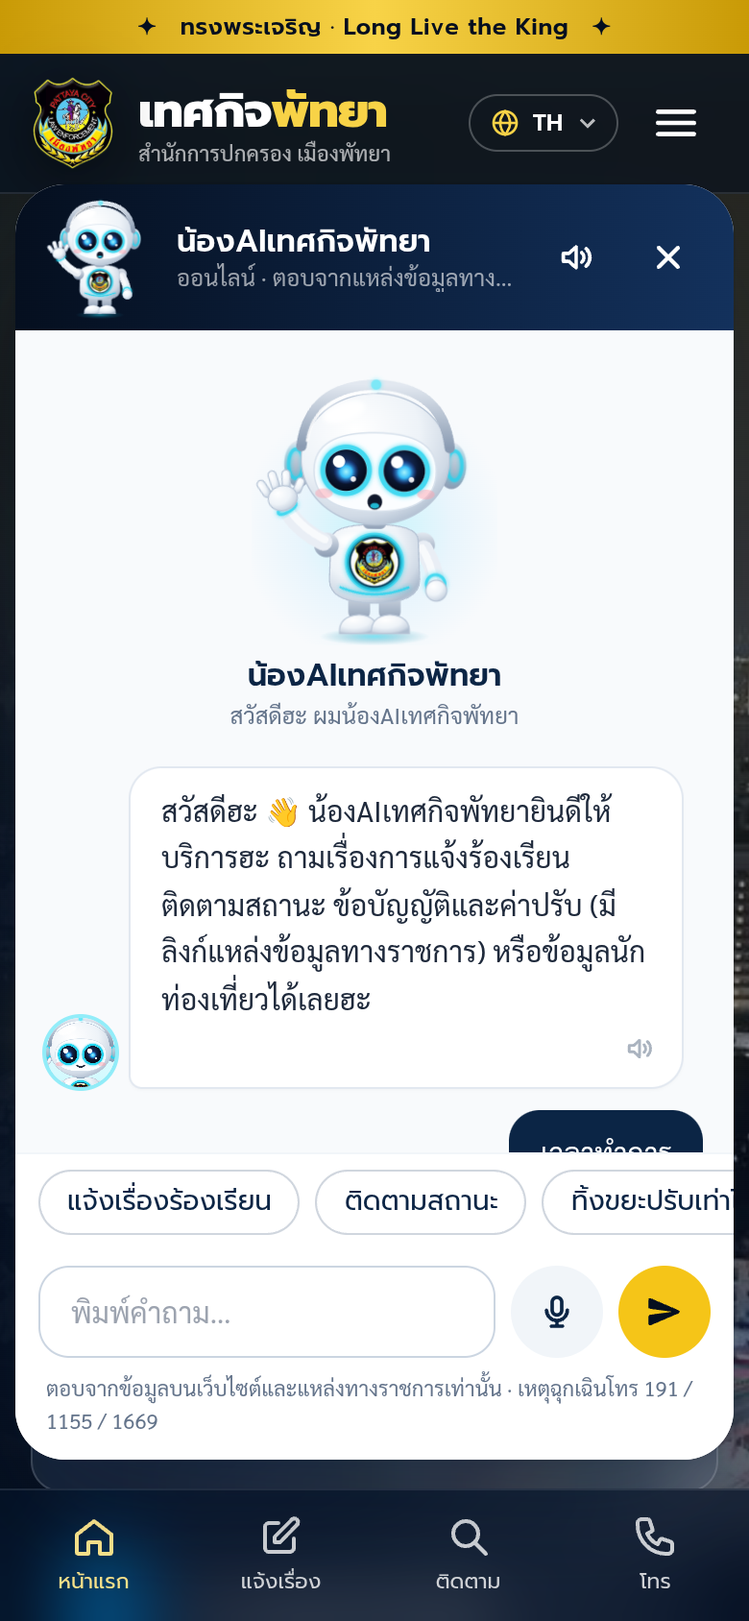
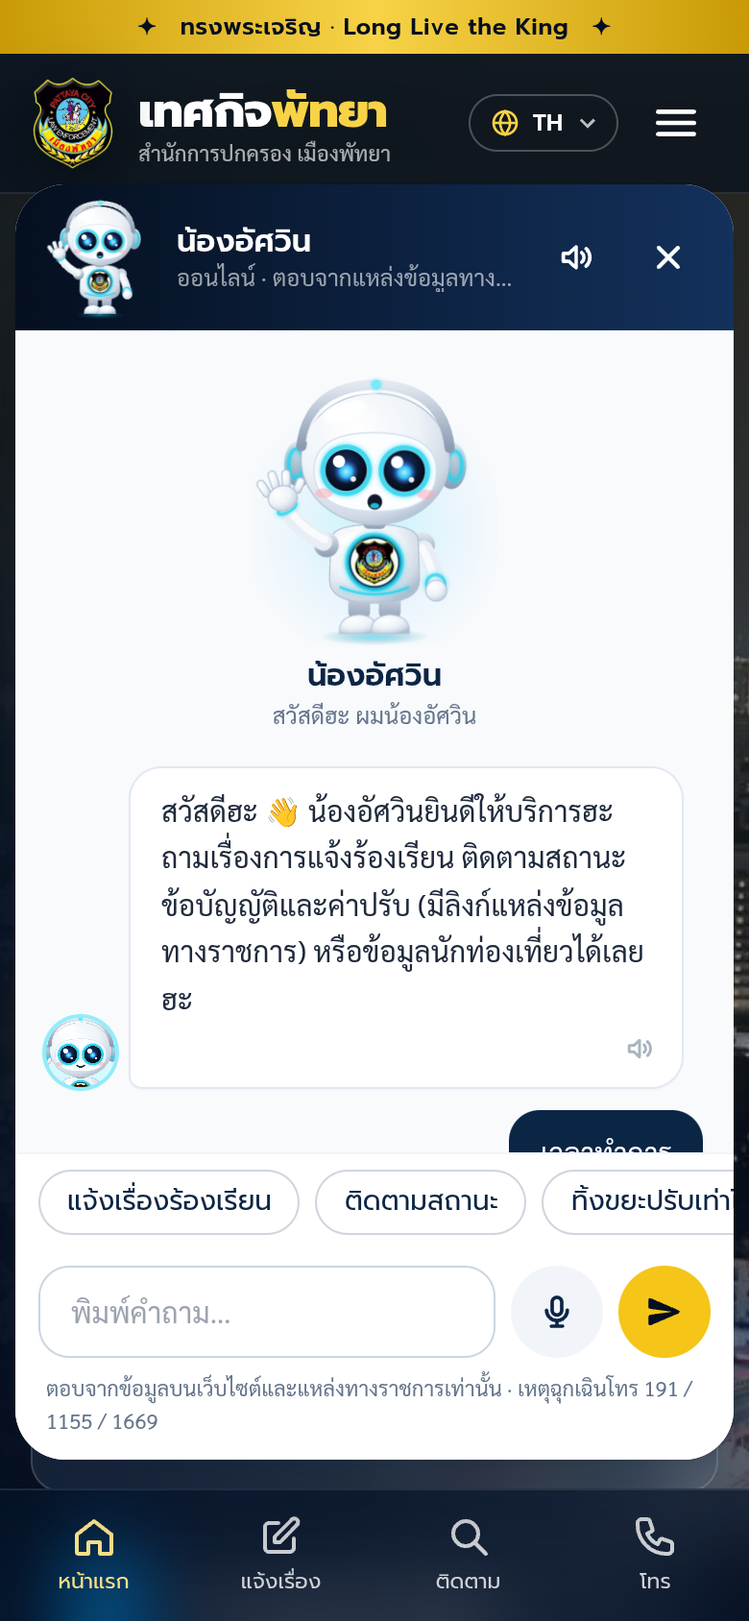
เปลี่ยนชื่อแชทบอท/มาสคอตเป็น 'น้องอัศวิน' (Nong Assawin / 阿萨温 / Нонг Ассавин) ทุกที่ + คำทักทายเสียงใหม่ + ตอบคำทักทาย/ถามชื่อ

Changed region(s): [[0.2154, 0.4929, 0.8615, 0.6469], [0.3077, 0.4005, 0.6769, 0.4621], [0.3077, 0.1232, 0.5846, 0.154]]

diff --git a/assets/app.js b/assets/app.js
@@ -237,7 +237,7 @@
   var langMenu = $('#langMenu'), langBtn = $('#langBtn');
   langBtn.addEventListener('click', function (e) { e.stopPropagation(); var hidden = langMenu.classList.toggle('hidden'); langBtn.setAttribute('aria-expanded', String(!hidden)); });
   document.addEventListener('click', function () { langMenu.classList.add('hidden'); langBtn.setAttribute('aria-expanded', 'false'); });
-  var langMsg = { en: ['English', 'The assistant “น้องAI” now replies in English. Full English pages coming soon.'], zh: ['中文', '智能助手现在用中文回答。中文网页即将推出。'], ru: ['Русский', 'Помощник теперь отвечает по-русски. Русская версия сайта скоро появится.'], th: ['ภาษาไทย', 'น้องAIตอบเป็นภาษาไทย'] };
+  var langMsg = { en: ['English', 'The assistant “Nong Assawin” now replies in English. Full English pages coming soon.'], zh: ['中文', '智能助手阿萨温现在用中文回答。中文网页即将推出。'], ru: ['Русский', 'Помощник Нонг Ассавин теперь отвечает по-русски. Русская версия сайта скоро появится.'], th: ['ภาษาไทย', 'น้องอัศวินตอบเป็นภาษาไทย'] };
   function setLang(l, silent) {
     if (!LANG_UI[l]) return; curLang = l; $('#langCur').textContent = LANG_UI[l];
     try { localStorage.setItem('tkpLang', l); } catch (e) {}
@@ -339,10 +339,10 @@
   // ---------- chatbot (มาสคอต + หลายภาษา) ----------
   var chatReady = false, history = [], bot = {}, userSpoke = false, greetEl = null, logoUrl = 'assets/logo.png';
   var CUI = {
-    th: { ph: 'พิมพ์คำถาม…', hint: 'ถามน้องAIได้เลย!', typing: 'กำลังพิมพ์', off: 'ขออภัยฮะ ขณะนี้ไม่สามารถเชื่อมต่อระบบได้ กรุณาลองใหม่อีกครั้งนะฮะ', sub: 'ออนไลน์ · ตอบจากแหล่งข้อมูลทางราชการ', dis: '', hi: 'สวัสดีฮะ ผมน้องAIเทศกิจพัทยา', tease: 'สวัสดีฮะ 👋', listen: 'กำลังฟัง… พูดได้เลยฮะ', spkOn: 'ปิดเสียงพูด', spkOff: 'เปิดเสียงพูด', replay: 'ฟังอีกครั้ง', mic: 'พูดเพื่อถาม', noVoice: 'อุปกรณ์นี้ยังไม่มีเสียงอ่านภาษาไทย (ลองใช้ Chrome/Edge หรือเพิ่มเสียงภาษาไทยในการตั้งค่าเครื่อง)', micErr: 'ใช้ไมโครโฟนไม่ได้ กรุณาอนุญาตการใช้ไมโครโฟนในเบราว์เซอร์' },
-    en: { ph: 'Type your question…', hint: 'Ask me anything!', typing: 'typing', off: 'Sorry, the assistant is offline right now. Please try again.', sub: 'Online · answers from official sources', dis: 'Answers only from this website and official sources · Emergency 191 / 1155 / 1669', hi: 'Hi, I’m your Pattaya City helper', tease: 'Hello! 👋', listen: 'Listening… go ahead', spkOn: 'Mute voice', spkOff: 'Unmute voice', replay: 'Play again', mic: 'Speak to ask', noVoice: 'No English voice is available on this device.', micErr: 'Microphone unavailable. Please allow microphone access.' },
-    zh: { ph: '请输入您的问题…', hint: '有问题问我吧！', typing: '正在输入', off: '抱歉，助手暂时无法连接，请稍后再试。', sub: '在线 · 依据官方来源回答', dis: '仅根据本网站及官方来源回答 · 紧急情况拨打 191 / 1155 / 1669', hi: '您好，我是芭提雅市执法小助手', tease: '您好！👋', listen: '正在聆听…请说', spkOn: '关闭语音', spkOff: '开启语音', replay: '再听一次', mic: '语音提问', noVoice: '此设备没有中文语音。', micErr: '无法使用麦克风，请在浏览器中允许麦克风权限。' },
-    ru: { ph: 'Введите вопрос…', hint: 'Спросите меня!', typing: 'печатает', off: 'Извините, помощник сейчас недоступен. Попробуйте позже.', sub: 'Онлайн · ответы по официальным источникам', dis: 'Ответы только по данным сайта и официальным источникам · Экстренно 191 / 1155 / 1669', hi: 'Привет! Я помощник инспекции Паттайи', tease: 'Привет! 👋', listen: 'Слушаю… говорите', spkOn: 'Выключить голос', spkOff: 'Включить голос', replay: 'Прослушать снова', mic: 'Спросить голосом', noVoice: 'На этом устройстве нет русского голоса.', micErr: 'Микрофон недоступен. Разрешите доступ к микрофону.' }
+    th: { ph: 'พิมพ์คำถาม…', hint: 'ถามน้องอัศวินได้เลย!', typing: 'กำลังพิมพ์', off: 'ขออภัยฮะ ขณะนี้ไม่สามารถเชื่อมต่อระบบได้ กรุณาลองใหม่อีกครั้งนะฮะ', sub: 'ออนไลน์ · ตอบจากแหล่งข้อมูลทางราชการ', dis: '', hi: 'สวัสดีฮะ ผมน้องอัศวิน', tease: 'สวัสดีฮะ 👋', listen: 'กำลังฟัง… พูดได้เลยฮะ', spkOn: 'ปิดเสียงพูด', spkOff: 'เปิดเสียงพูด', replay: 'ฟังอีกครั้ง', mic: 'พูดเพื่อถาม', noVoice: 'อุปกรณ์นี้ยังไม่มีเสียงอ่านภาษาไทย (ลองใช้ Chrome/Edge หรือเพิ่มเสียงภาษาไทยในการตั้งค่าเครื่อง)', micErr: 'ใช้ไมโครโฟนไม่ได้ กรุณาอนุญาตการใช้ไมโครโฟนในเบราว์เซอร์' },
+    en: { ph: 'Type your question…', hint: 'Ask me anything!', typing: 'typing', off: 'Sorry, the assistant is offline right now. Please try again.', sub: 'Online · answers from official sources', dis: 'Answers only from this website and official sources · Emergency 191 / 1155 / 1669', hi: 'Hi, I’m Nong Assawin, your Pattaya City helper', tease: 'Hello! 👋', listen: 'Listening… go ahead', spkOn: 'Mute voice', spkOff: 'Unmute voice', replay: 'Play again', mic: 'Speak to ask', noVoice: 'No English voice is available on this device.', micErr: 'Microphone unavailable. Please allow microphone access.' },
+    zh: { ph: '请输入您的问题…', hint: '有问题问我吧！', typing: '正在输入', off: '抱歉，助手暂时无法连接，请稍后再试。', sub: '在线 · 依据官方来源回答', dis: '仅根据本网站及官方来源回答 · 紧急情况拨打 191 / 1155 / 1669', hi: '您好，我是阿萨温，芭提雅市执法小助手', tease: '您好！👋', listen: '正在聆听…请说', spkOn: '关闭语音', spkOff: '开启语音', replay: '再听一次', mic: '语音提问', noVoice: '此设备没有中文语音。', micErr: '无法使用麦克风，请在浏览器中允许麦克风权限。' },
+    ru: { ph: 'Введите вопрос…', hint: 'Спросите меня!', typing: 'печатает', off: 'Извините, помощник сейчас недоступен. Попробуйте позже.', sub: 'Онлайн · ответы по официальным источникам', dis: 'Ответы только по данным сайта и официальным источникам · Экстренно 191 / 1155 / 1669', hi: 'Привет! Я Нонг Ассавин, помощник инспекции Паттайи', tease: 'Привет! 👋', listen: 'Слушаю… говорите', spkOn: 'Выключить голос', spkOff: 'Включить голос', replay: 'Прослушать снова', mic: 'Спросить голосом', noVoice: 'На этом устройстве нет русского голоса.', micErr: 'Микрофон недоступен. Разрешите доступ к микрофону.' }
   };
   function useMascot() { return bot.mascot !== false; }
   function avatarHtml(cls) {
@@ -403,7 +403,7 @@
     });
     if (!stopMic) micState(false);
   }
-  function voiceGreeting() { var g = vcfg().greetings || {}; return pfx(g[curLang] || (curLang === 'th' ? 'สวัสดีฮะ ยินดีต้อนรับสู่เทศกิจพัทยาฮะ น้องAIยินดีช่วยเหลือฮะ' : g.en) || ''); }
+  function voiceGreeting() { var g = vcfg().greetings || {}; return pfx(g[curLang] || (curLang === 'th' ? 'สวัสดีฮะ น้องอัศวินยินดีต้อนรับสู่เทศกิจพัทยาฮะ' : g.en) || ''); }
   function greeting() { var g = bot.greetings || {}; return pfx(g[curLang] || (curLang === 'th' ? bot.greeting : g.en) || bot.greeting || 'สวัสดีฮะ'); }
   function chips() { var q = bot.quickRepliesI18n || {}; return q[curLang] || (curLang === 'th' ? bot.quickReplies : q.en) || bot.quickReplies || []; }
   function paintChat() {
@@ -421,7 +421,7 @@
     if (bot.enabled === false) return;
     logoUrl = safeUrl(((window.__content || {}).site || {}).logo || 'assets/logo.png');
     $('#chatRoot').classList.remove('hidden');
-    $$('.bot-name').forEach(function (el) { el.textContent = bot.name || 'น้องAI'; });
+    $$('.bot-name').forEach(function (el) { el.textContent = bot.name || 'น้องอัศวิน'; });
     $('#chatFabFig').innerHTML = avatarHtml('');
     $('#chatHeadFig').innerHTML = avatarHtml('');
     $('#chatDisclaimer').textContent = bot.disclaimer || '';
@@ -429,7 +429,7 @@
       if (useMascot()) {
         var hero = document.createElement('div');
         hero.className = 'flex flex-col items-center text-center pt-1 pb-2';
-        hero.innerHTML = '<span id="chatHeroFig" class="block w-32 h-36" style="background:radial-gradient(circle at 50% 58%,rgba(103,232,249,.35) 0,rgba(186,230,253,.25) 38%,transparent 66%)">' + window.TKPMascot.svg(logoUrl, '', bot.mascotStyle) + '</span><p class="mt-1 font-head font-semibold text-navy-900 bot-name">' + esc(bot.name || 'น้องAI') + '</p><p id="chatHeroHi" class="text-xs text-slate-500"></p>';
+        hero.innerHTML = '<span id="chatHeroFig" class="block w-32 h-36" style="background:radial-gradient(circle at 50% 58%,rgba(103,232,249,.35) 0,rgba(186,230,253,.25) 38%,transparent 66%)">' + window.TKPMascot.svg(logoUrl, '', bot.mascotStyle) + '</span><p class="mt-1 font-head font-semibold text-navy-900 bot-name">' + esc(bot.name || 'น้องอัศวิน') + '</p><p id="chatHeroHi" class="text-xs text-slate-500"></p>';
         $('#chatLog').appendChild(hero);
       }
       greetEl = addMsg('bot', greeting()); chatReady = true;

diff --git a/admin/index.html b/admin/index.html
@@ -116,7 +116,7 @@
         <p class="mt-3 text-xs text-slate-400">ปิด “แชทบอท” จะปิด API /api/chat ด้วย · ปิด “แจ้งเหตุบนถนน” จะซ่อนปุ่ม/รายการแจ้งเหตุและหมุดบนแผนที่</p>
       </section>
       <section class="rounded-2xl bg-white ring-1 ring-slate-200 p-4 mt-4" id="voiceBox">
-        <h2 class="font-head font-semibold text-lg text-navy-900 mb-1">🔊 เสียงพูดของน้องAI</h2>
+        <h2 class="font-head font-semibold text-lg text-navy-900 mb-1">🔊 เสียงพูดของน้องอัศวิน</h2>
         <p class="text-xs text-slate-500 mb-2">ใช้เสียงในเบราว์เซอร์ (ฟรี) · เสียงภาษาไทยขึ้นกับอุปกรณ์ผู้ใช้ · <span id="ttsStatus">กำลังตรวจสอบเสียงฝั่งเซิร์ฟเวอร์…</span></p>
         <div id="voiceList" class="divide-y divide-slate-100"></div>
       </section>
@@ -358,7 +358,7 @@ $$('[data-goto]').forEach(function(b){b.onclick=function(){current=b.dataset.got
 
 // ---------- layout tab (sections on/off + drag-and-drop order) ----------
 var SEC_DEF=[['hero','ภาพหลัก (Hero)'],['royal','ส่วนถวายพระพร'],['services','บริการ'],['traffic','แผนที่จราจร 3D / CCTV / แจ้งเหตุ'],['tourist','ช่วยเหลือนักท่องเที่ยว'],['track','เกี่ยวกับเรา · แจ้งเรื่อง · ติดตามสถานะ'],['stats','สถิติ'],['news','ข่าวสาร'],['laws','กฎหมาย/ค่าปรับ'],['faq','คำถามที่พบบ่อย']];
-var FEAT_DEF=[['cctv','กล้อง CCTV','กล้องสดบนแผนที่ 3D และแถบกล้อง'],['alerts','แจ้งเหตุบนถนน (Waze-style)','ปุ่มแจ้งเหตุ รายการเหตุ และหมุดบนแผนที่'],['simulation','รถ 3 มิติ (ภาพจำลอง)','ปุ่ม 🚗 และรถจำลองบนแผนที่'],['complaint','แจ้งเรื่องร้องเรียน','การ์ด/แบบฟอร์มแจ้งเรื่อง และลิงก์เมนู'],['trackStatus','ติดตามสถานะ','การ์ดค้นหาเลขรับเรื่อง'],['about','เกี่ยวกับเรา','ข้อความแนะนำหน่วยงาน'],['chatbot','แชทบอท น้องAI','ปุ่มลอยและหน้าต่างแชท'],['mobileBar','แถบเมนูล่าง (มือถือ)','เมนูลัด 4 ปุ่มด้านล่างจอมือถือ']];
+var FEAT_DEF=[['cctv','กล้อง CCTV','กล้องสดบนแผนที่ 3D และแถบกล้อง'],['alerts','แจ้งเหตุบนถนน (Waze-style)','ปุ่มแจ้งเหตุ รายการเหตุ และหมุดบนแผนที่'],['simulation','รถ 3 มิติ (ภาพจำลอง)','ปุ่ม 🚗 และรถจำลองบนแผนที่'],['complaint','แจ้งเรื่องร้องเรียน','การ์ด/แบบฟอร์มแจ้งเรื่อง และลิงก์เมนู'],['trackStatus','ติดตามสถานะ','การ์ดค้นหาเลขรับเรื่อง'],['about','เกี่ยวกับเรา','ข้อความแนะนำหน่วยงาน'],['chatbot','แชทบอท น้องอัศวิน','ปุ่มลอยและหน้าต่างแชท'],['mobileBar','แถบเมนูล่าง (มือถือ)','เมนูลัด 4 ปุ่มด้านล่างจอมือถือ']];
 var layDirtyFlag=false;
 function layDirty(on){layDirtyFlag=on;$('#layDirty').classList.toggle('hidden',!on);setDirty(on)}
 function ensureLayout(){
@@ -405,7 +405,7 @@ function renderLayout(){
       (pin?'':'<button type="button" class="btn btn-ghost !px-2 !py-1" data-lmv="-1" aria-label="เลื่อนขึ้น">↑</button><button type="button" class="btn btn-ghost !px-2 !py-1" data-lmv="1" aria-label="เลื่อนลง">↓</button>')+
       swHtml('data-lsw',x.enabled,'แสดง '+x.label)+'</li>'}).join('');
   var fl=FEAT_DEF.map(function(d){return '<div class="flex items-center gap-3 py-3"><div class="flex-1 min-w-0"><p class="font-head font-medium text-navy-900">'+esc(d[1])+'</p><p class="text-xs text-slate-500">'+esc(d[2])+'</p></div>'+swHtml('data-fsw="'+d[0]+'"',content.features[d[0]]!==false,d[1])+'</div>'}).join('');
-  fl+='<div class="flex items-center gap-3 py-3"><div class="flex-1 min-w-0"><p class="font-head font-medium text-navy-900">มาสคอตน้องAI (แอนิเมชัน)</p><p class="text-xs text-slate-500">ปิดเพื่อใช้รูปอวตารที่อัปโหลดเอง (เนื้อหาเว็บไซต์ → แชทบอท → รูปอวตาร)</p></div>'+swHtml('data-msw',content.chatbot.mascot!==false,'มาสคอต')+'</div>';
+  fl+='<div class="flex items-center gap-3 py-3"><div class="flex-1 min-w-0"><p class="font-head font-medium text-navy-900">มาสคอตน้องอัศวิน (แอนิเมชัน)</p><p class="text-xs text-slate-500">ปิดเพื่อใช้รูปอวตารที่อัปโหลดเอง (เนื้อหาเว็บไซต์ → แชทบอท → รูปอวตาร)</p></div>'+swHtml('data-msw',content.chatbot.mascot!==false,'มาสคอต')+'</div>';
   var ms=content.chatbot.mascotStyle==='officer'?'officer':'robot';
   fl+='<div class="flex items-center gap-3 py-3"><div class="flex-1 min-w-0"><p class="font-head font-medium text-navy-900">แบบมาสคอต</p><p class="text-xs text-slate-500">หุ่นยนต์ (ค่าเริ่มต้น) หรือ หุ่นยนต์ชุดเจ้าหน้าที่เทศกิจ (ตัวอย่าง)</p></div><select data-mstyle class="rounded-lg border border-slate-300 px-3 py-1.5 text-sm"><option value="robot"'+(ms==='robot'?' selected':'')+'>หุ่นยนต์</option><option value="officer"'+(ms==='officer'?' selected':'')+'>เจ้าหน้าที่</option></select></div>';
   $('#featList').innerHTML=fl;

diff --git a/index.html b/index.html
@@ -75,7 +75,7 @@ tailwind.config = {
   .typing span { width:7px; height:7px; border-radius:99px; background:#94a3b8; display:inline-block; animation: blink 1.2s infinite both; }
   .typing span:nth-child(2){animation-delay:.2s} .typing span:nth-child(3){animation-delay:.4s}
   @keyframes blink { 0%,80%,100%{opacity:.25; transform:translateY(0)} 40%{opacity:1; transform:translateY(-3px)} }
-  /* ---- mascot น้องAI: CSS อยู่ใน assets/mascot.js ---- */
+  /* ---- mascot น้องอัศวิน: CSS อยู่ใน assets/mascot.js ---- */
   #chatMic.mic-on{background:#ef4444;color:#fff}
   #chatMic.mic-on::before,#chatMic.mic-on::after{content:'';position:absolute;inset:0;border-radius:9999px;background:rgba(239,68,68,.45);animation:micPulse 1.4s ease-out infinite}
   #chatMic.mic-on::after{animation-delay:.7s}
@@ -645,12 +645,12 @@ tailwind.config = {
 
 <!-- Chatbot -->
 <div id="chatRoot" class="hidden">
-  <button id="chatFab" type="button" class="fixed z-50 right-3 bottom-[84px] lg:bottom-5 lg:right-6 group flex items-end gap-1" aria-controls="chatPanel" aria-expanded="false" aria-label="แชทกับน้องAIเทศกิจพัทยา">
-    <span id="chatHint" class="chat-bubble-hint hidden sm:inline-flex mb-9 mr-[-6px] items-center rounded-2xl rounded-br-md bg-white text-navy-900 font-head font-semibold text-sm px-3.5 py-2 shadow-lift ring-1 ring-black/5"><span id="chatHintText">ถาม<span class="bot-name">น้องAI</span>ได้เลย!</span></span>
+  <button id="chatFab" type="button" class="fixed z-50 right-3 bottom-[84px] lg:bottom-5 lg:right-6 group flex items-end gap-1" aria-controls="chatPanel" aria-expanded="false" aria-label="แชทกับน้องอัศวิน">
+    <span id="chatHint" class="chat-bubble-hint hidden sm:inline-flex mb-9 mr-[-6px] items-center rounded-2xl rounded-br-md bg-white text-navy-900 font-head font-semibold text-sm px-3.5 py-2 shadow-lift ring-1 ring-black/5"><span id="chatHintText">ถาม<span class="bot-name">น้องอัศวิน</span>ได้เลย!</span></span>
     <span id="chatFabFig" class="relative block w-[78px] h-[92px] fab-mascot"></span>
     <span class="absolute right-2 bottom-1 w-3.5 h-3.5 rounded-full bg-emerald-400 ring-2 ring-white"></span>
   </button>
-  <section id="chatPanel" class="chat-panel closed fixed z-[55] inset-x-2 bottom-[84px] top-[96px] sm:top-auto sm:inset-x-auto sm:right-6 sm:bottom-24 lg:bottom-24 sm:w-[400px] sm:h-[620px] max-h-[calc(100svh-100px)] rounded-[26px] bg-white shadow-lift ring-1 ring-black/5 flex flex-col overflow-hidden" role="dialog" aria-label="แชทกับน้องAI" aria-modal="false">
+  <section id="chatPanel" class="chat-panel closed fixed z-[55] inset-x-2 bottom-[84px] top-[96px] sm:top-auto sm:inset-x-auto sm:right-6 sm:bottom-24 lg:bottom-24 sm:w-[400px] sm:h-[620px] max-h-[calc(100svh-100px)] rounded-[26px] bg-white shadow-lift ring-1 ring-black/5 flex flex-col overflow-hidden" role="dialog" aria-label="แชทกับน้องอัศวิน" aria-modal="false">
     <header class="relative bg-gradient-to-r from-navy-950 to-navy-800 text-white px-4 py-3.5 flex items-center gap-3">
       <span id="chatHeadFig" class="relative w-14 h-16 -my-2 shrink-0"></span>
       <span class="hidden">
@@ -658,7 +658,7 @@ tailwind.config = {
         <span class="absolute bottom-0 right-0 w-3 h-3 rounded-full bg-emerald-400 ring-2 ring-navy-900"></span>
       </span>
       <div class="min-w-0 flex-1">
-        <p class="font-head font-semibold leading-tight truncate bot-name">น้องAIเทศกิจพัทยา</p>
+        <p class="font-head font-semibold leading-tight truncate bot-name">น้องอัศวิน</p>
         <p class="text-xs text-white/60 truncate" id="chatSub">ออนไลน์ · TH / EN</p>
       </div>
       <button id="chatSpk" type="button" class="hidden w-9 h-9 rounded-full hover:bg-white/10 items-center justify-center" aria-pressed="true" aria-label="เปิด/ปิดเสียงพูด" title="เสียงพูด">

diff --git a/assets/mascot.js b/assets/mascot.js
@@ -1,4 +1,4 @@
-/* น้องAIเทศกิจพัทยา — มาสคอตหุ่นยนต์ต้นฉบับ (ออกแบบใหม่ทั้งหมด ไม่ได้ลอก/ตามรอยภาพใด) วาดด้วย SVG หลายเลเยอร์ + แอนิเมชัน CSS
+/* น้องอัศวิน — มาสคอตหุ่นยนต์ต้นฉบับ (ออกแบบใหม่ทั้งหมด ไม่ได้ลอก/ตามรอยภาพใด) วาดด้วย SVG หลายเลเยอร์ + แอนิเมชัน CSS
  * TKPMascot.svg(logoUrl, extraClass) → string
  *   คลาสเสริม: wave (โบกมือ) · talking (ขยับปาก/ตาเรืองแสงขณะตอบ) · static (หยุดลอย/เอียงหัว)
  *   แอนิเมชันพื้นฐาน: ลอยขึ้นลง · กะพริบตา · เอียงหัว · ไฟอก/ตาเรืองแสงเป็นจังหวะ · hover = โบกมือ + เอียงหัว + ตายิ้ม
@@ -74,7 +74,7 @@
     logo = esc(logo || 'assets/logo.png');
     var id = 'm' + (++n) + Math.random().toString(36).slice(2, 6);
     var W = 'url(#wh' + id + ')';
-    return '<svg class="mascot ' + esc(cls || '') + '" viewBox="0 0 160 190" width="100%" height="100%" role="img" aria-label="น้องAIเทศกิจพัทยา">' +
+    return '<svg class="mascot ' + esc(cls || '') + '" viewBox="0 0 160 190" width="100%" height="100%" role="img" aria-label="น้องอัศวิน">' +
       '<defs>' +
         '<radialGradient id="wh' + id + '" cx="36%" cy="28%" r="78%"><stop offset="0" stop-color="#ffffff"/><stop offset=".55" stop-color="#eef3f8"/><stop offset=".85" stop-color="#cfd9e5"/><stop offset="1" stop-color="#aebdcf"/></radialGradient>' +
         '<radialGradient id="ey' + id + '" cx="45%" cy="40%" r="65%"><stop offset="0" stop-color="#1d3b7a"/><stop offset=".6" stop-color="#0b1730"/><stop offset="1" stop-color="#030712"/></radialGradient>' +
@@ -149,7 +149,7 @@
     logo = esc(logo || 'assets/logo.png');
     var id = 'o' + (++n) + Math.random().toString(36).slice(2, 6);
     var W = 'url(#wh' + id + ')', NV = 'url(#nv' + id + ')', GD = 'url(#gd' + id + ')', G = 'url(#gl' + id + ')';
-    return '<svg class="mascot mascot-officer ' + esc(cls || '') + '" viewBox="0 0 160 190" width="100%" height="100%" role="img" aria-label="น้องAIเทศกิจพัทยา (ชุดเจ้าหน้าที่)">' +
+    return '<svg class="mascot mascot-officer ' + esc(cls || '') + '" viewBox="0 0 160 190" width="100%" height="100%" role="img" aria-label="น้องอัศวิน (ชุดเจ้าหน้าที่)">' +
       '<defs>' +
         '<radialGradient id="wh' + id + '" cx="36%" cy="28%" r="78%"><stop offset="0" stop-color="#ffffff"/><stop offset=".55" stop-color="#eef3f8"/><stop offset=".85" stop-color="#cfd9e5"/><stop offset="1" stop-color="#aebdcf"/></radialGradient>' +
         '<linearGradient id="nv' + id + '" x1="0" y1="0" x2=".35" y2="1"><stop offset="0" stop-color="#2c4f86"/><stop offset=".5" stop-color="#16325e"/><stop offset="1" stop-color="#0a1c3a"/></linearGradient>' +

diff --git a/chatbot.js b/chatbot.js
@@ -1,5 +1,5 @@
 /**
- * น้องAIเทศกิจพัทยา — chatbot engine (TH / EN / 中文 / РУС)
+ * น้องอัศวิน — chatbot engine (TH / EN / 中文 / РУС)
  * โหมด 1 (ค่าเริ่มต้น): ออฟไลน์ ตอบจากฐานความรู้ใน content.json เท่านั้น
  *   = chatbot.kb + faq + laws.items (ข้อมูลกฎหมายที่สรุปจากเว็บไซต์ราชการ พร้อม URL แหล่งที่มา)
  *   ถ้าไม่พบคำตอบที่มั่นใจ → ไม่เดา ตอบว่าไม่มีข้อมูล + ลิงก์ทางการ (chatbot.fallbackI18n)
@@ -115,7 +115,7 @@ function offlineAnswer(message, c, uiLang) {
   return { reply: applyParticle(fill(fb, c), lang, c), lang, matched: null, sources: [], score: +bestScore.toFixed(2) };
 }
 
-// คำลงท้ายภาษาไทยของน้องAI (ค่าเริ่มต้น "ฮะ" แก้ได้ในหลังบ้าน chatbot.particle) — เปลี่ยนเฉพาะคำลงท้ายประโยค ไม่แตะเนื้อหากฎหมาย
+// คำลงท้ายภาษาไทยของน้องอัศวิน (ค่าเริ่มต้น "ฮะ" แก้ได้ในหลังบ้าน chatbot.particle) — เปลี่ยนเฉพาะคำลงท้ายประโยค ไม่แตะเนื้อหากฎหมาย
 const PARTICLE_RE = /(ครับ|ค่ะ|ฮะ)(?=$|[\s.!?,)…👉🙏—:]|\n)/gu;
 function applyParticle(text, lang, c) {
   if (lang !== 'th') return text;

diff --git a/tts.js b/tts.js
@@ -1,6 +1,6 @@
 /* Server TTS (ไม่บังคับ) — เสียงคุณภาพสูงกว่าเสียงในเบราว์เซอร์
  * TTS_PROVIDER=openai : เรียก OpenAI-compatible POST {TTS_BASE_URL|AI_BASE_URL}/audio/speech (กุญแจ TTS_API_KEY หรือ AI_API_KEY)
- *                       TTS_MODEL (ค่าเริ่มต้น gpt-4o-mini-tts) · TTS_VOICE_FEMALE (nova) · TTS_VOICE_MALE (echo — เสียงผู้ชายนุ่ม ๆ ค่าเริ่มต้นของน้องAI)
+ *                       TTS_MODEL (ค่าเริ่มต้น gpt-4o-mini-tts) · TTS_VOICE_FEMALE (nova) · TTS_VOICE_MALE (echo — เสียงผู้ชายนุ่ม ๆ ค่าเริ่มต้นของน้องอัศวิน)
  * TTS_PROVIDER=google : Google Cloud Text-to-Speech REST ด้วย GOOGLE_TTS_API_KEY (ไม่ใช่กุญแจ Maps; จำกัด API ให้เฉพาะ Text-to-Speech)
  *                       เลือกเสียงเจาะจงได้ด้วย GOOGLE_TTS_VOICE_TH / _EN / _ZH / _RU (เช่น เสียงผู้ชายภาษาไทยรุ่น Chirp3-HD) ไม่ตั้ง = ให้ Google เลือกตาม ssmlGender
  * ไม่ตั้ง = ปิด → หน้าเว็บใช้ speechSynthesis ของเบราว์เซอร์ (ฟรี ไม่ต้องมีกุญแจ) · กุญแจอยู่ฝั่งเซิร์ฟเวอร์เท่านั้น */

diff --git a/tools/make_mascot_svg.js b/tools/make_mascot_svg.js
@@ -6,5 +6,5 @@ const style = process.argv[2] || 'officer';
 let svg = window.TKPMascot.svg('logo.png', '', style).replace(/ width="100%" height="100%"/, ' width="320" height="380"');
 svg = svg.replace('<svg ', '<svg xmlns="http://www.w3.org/2000/svg" ').replace('<defs>', '<style>' + window.TKPMascot.css.replace(/#chatFab:hover \.mascot /g, '.mascot:hover ') + '</style><defs>');
 const out = path.join(__dirname, '..', 'assets', style === 'officer' ? 'mascot-officer.svg' : 'mascot.svg');
-fs.writeFileSync(out, '<?xml version="1.0" encoding="UTF-8"?>\n<!-- น้องAIเทศกิจพัทยา — มาสคอตต้นฉบับ (' + style + ') · ตราโล่อ้างอิง logo.png ในโฟลเดอร์เดียวกัน -->\n' + svg + '\n');
+fs.writeFileSync(out, '<?xml version="1.0" encoding="UTF-8"?>\n<!-- น้องอัศวิน — มาสคอตต้นฉบับ (' + style + ') · ตราโล่อ้างอิง logo.png ในโฟลเดอร์เดียวกัน -->\n' + svg + '\n');
 console.log(out, fs.statSync(out).size);

diff --git a/assets/voice.js b/assets/voice.js
@@ -1,4 +1,4 @@
-/* น้องAIเทศกิจพัทยา — เสียงพูด/ฟัง (ฟรี ไม่ต้องใช้กุญแจ)
+/* น้องอัศวิน — เสียงพูด/ฟัง (ฟรี ไม่ต้องใช้กุญแจ)
  * TTS : Web Speech API speechSynthesis (เลือกเสียงตามภาษา th-TH / en-US / zh-CN / ru-RU, ชอบเสียงผู้ชาย)
  *       ถ้าเซิร์ฟเวอร์ตั้ง TTS_PROVIDER ไว้ จะใช้ POST /api/tts (เสียงคุณภาพสูงกว่า) และถอยกลับมาใช้เสียงเบราว์เซอร์เมื่อผิดพลาด
  * STT : SpeechRecognition / webkitSpeechRecognition (Chrome, Edge, Android, Safari) — ไม่รองรับ = ซ่อนปุ่มไมค์

diff --git a/tools/build_laws.py b/tools/build_laws.py
@@ -161,7 +161,7 @@ old = {s['id']: s for s in c.get('sections', [])}
 c['sections'] = [dict(id=k, label=l, enabled=old.get(k, {}).get('enabled', True), order=old.get(k, {}).get('order', i + 1)) for i, (k, l) in enumerate(SEC)]
 of = c.get('features', {})
 FEAT = [('cctv','กล้อง CCTV'),('alerts','แจ้งเหตุบนถนน (Waze-style)'),('simulation','รถ 3 มิติ (ภาพจำลอง)'),('complaint','แจ้งเรื่องร้องเรียน'),('trackStatus','ติดตามสถานะ'),
-        ('about','เกี่ยวกับเรา'),('chatbot','แชทบอท น้องAI'),('mobileBar','แถบเมนูล่าง (มือถือ)')]
+        ('about','เกี่ยวกับเรา'),('chatbot','แชทบอท น้องอัศวิน'),('mobileBar','แถบเมนูล่าง (มือถือ)')]
 c['features'] = {k: of.get(k, True) for k, _ in FEAT}
 c['featureLabels'] = {k: l for k, l in FEAT}
 
@@ -170,10 +170,10 @@ b = c['chatbot']
 b['mascot'] = b.get('mascot', True)
 b['subtitle'] = 'ผู้ช่วยตอบคำถามอัตโนมัติ · TH / EN / 中文 / РУС'
 b['greetings'] = {
- 'th': 'สวัสดีครับ 👋 น้องAIเทศกิจพัทยายินดีให้บริการ ถามเรื่องการแจ้งร้องเรียน ติดตามสถานะ ข้อบัญญัติและค่าปรับ (มีลิงก์แหล่งข้อมูลทางราชการ) หรือข้อมูลนักท่องเที่ยวได้เลยครับ',
+ 'th': 'สวัสดีครับ 👋 น้องอัศวินยินดีให้บริการ ถามเรื่องการแจ้งร้องเรียน ติดตามสถานะ ข้อบัญญัติและค่าปรับ (มีลิงก์แหล่งข้อมูลทางราชการ) หรือข้อมูลนักท่องเที่ยวได้เลยครับ',
  'en': 'Hello! 👋 I\'m the Pattaya City Law Enforcement assistant. Ask me about reporting issues, tracking a report, local rules & fines (with official source links) or tourist help.',
- 'zh': '您好！👋 我是芭提雅市执法助手。可以咨询投诉、进度查询、法规与罚款（附官方来源链接）以及游客帮助。',
- 'ru': 'Здравствуйте! 👋 Я помощник муниципальной инспекции Паттайи. Спрашивайте о жалобах, статусе обращения, правилах и штрафах (со ссылками на официальные источники) и помощи туристам.'}
+ 'zh': '您好！👋 我是阿萨温（Nong Assawin），芭提雅市执法助手。可以咨询投诉、进度查询、法规与罚款（附官方来源链接）以及游客帮助。',
+ 'ru': 'Здравствуйте! 👋 Я Нонг Ассавин, помощник муниципальной инспекции Паттайи. Спрашивайте о жалобах, статусе обращения, правилах и штрафах (со ссылками на официальные источники) и помощи туристам.'}
 b['greeting'] = b['greetings']['th']
 b['quickRepliesI18n'] = {
  'th': ['แจ้งเรื่องร้องเรียน','ติดตามสถานะ','ทิ้งขยะปรับเท่าไร','ขายของบนทางเท้า','สภาพจราจร','เบอร์ฉุกเฉิน','เวลาทำการ'],
@@ -182,7 +182,7 @@ b['quickRepliesI18n'] = {
  'ru': ['Подать жалобу','Статус обращения','Штраф за мусор','Уличная торговля','Пробки','Экстренные номера','Часы работы']}
 b['quickReplies'] = b['quickRepliesI18n']['th']
 b['fallbackI18n'] = {
- 'th': 'ขออภัยครับ น้องไม่มีข้อมูลที่ยืนยันได้จากแหล่งทางราชการในเรื่องนี้ จึงไม่ขอเดาคำตอบ 🙏 โปรดตรวจสอบที่ห้องสมุดกฎหมายเมืองพัทยา https://info.pattaya.go.th/DocLib8/Forms/AllItems.aspx หรือเว็บไซต์เมืองพัทยา https://www.pattaya.go.th หรือโทรสายด่วน {hotline} ({hours})',
+ 'th': 'ขออภัยครับ น้องอัศวินไม่มีข้อมูลที่ยืนยันได้จากแหล่งทางราชการในเรื่องนี้ จึงไม่ขอเดาคำตอบ 🙏 โปรดตรวจสอบที่ห้องสมุดกฎหมายเมืองพัทยา https://info.pattaya.go.th/DocLib8/Forms/AllItems.aspx หรือเว็บไซต์เมืองพัทยา https://www.pattaya.go.th หรือโทรสายด่วน {hotline} ({hours})',
  'en': 'Sorry, I don\'t have verified official information on that, so I won\'t guess 🙏 Please check Pattaya City\'s law library https://info.pattaya.go.th/DocLib8/Forms/AllItems.aspx or https://www.pattaya.go.th, or call {hotline} ({hours}). Emergencies: 191 / 1155 / 1669.',
  'zh': '抱歉，我没有经官方核实的相关信息，因此不作猜测 🙏 请查阅芭提雅市法规库 https://info.pattaya.go.th/DocLib8/Forms/AllItems.aspx 或 https://www.pattaya.go.th，或致电 {hotline}。紧急情况请拨 191 / 1155（旅游警察）/ 1669。',
  'ru': 'Извините, у меня нет проверенной официальной информации по этому вопросу, поэтому я не буду гадать 🙏 См. правовую библиотеку Паттайи https://info.pattaya.go.th/DocLib8/Forms/AllItems.aspx или https://www.pattaya.go.th, либо звоните {hotline}. Экстренно: 191 / 1155 (туристическая полиция) / 1669.'}
@@ -243,6 +243,6 @@ json.dump(c, open(P, 'w', encoding='utf-8'), ensure_ascii=False, indent=2)
 
 print('laws items:', len(items), 'with amounts:', sum(1 for i in items if i['fineAmount']))
 
-# บุคลิกน้องAI (ลงท้าย 'ฮะ') + ค่าเสียงพูด
+# บุคลิกน้องอัศวิน (ลงท้าย 'ฮะ') + ค่าเสียงพูด
 import subprocess, sys
 subprocess.run([sys.executable, os.path.join(os.path.dirname(os.path.abspath(__file__)), 'apply_persona.py')], check=True)

diff --git a/tools/apply_persona.py b/tools/apply_persona.py
@@ -1,4 +1,4 @@
-"""บุคลิกน้องAI: เด็กผู้ชายสุภาพ อ่อนโยน ภาษาไทยลงท้ายด้วย 'ฮะ' + ค่าเสียงพูดเริ่มต้น (idempotent)
+"""บุคลิกน้องอัศวิน: เด็กผู้ชายสุภาพ อ่อนโยน ภาษาไทยลงท้ายด้วย 'ฮะ' + ค่าเสียงพูดเริ่มต้น (idempotent)
 python3 tools/apply_persona.py   (build_laws.py เรียกให้อัตโนมัติ)"""
 import json, os, re
 ROOT = os.path.dirname(os.path.dirname(os.path.abspath(__file__)))
@@ -21,7 +21,7 @@ def main():
     c = json.load(open(P, encoding='utf-8'))
     b = c.setdefault('chatbot', {})
     pt = b.setdefault('particle', 'ฮะ')
-    b['greeting'] = 'สวัสดีฮะ 👋 น้องAIเทศกิจพัทยายินดีให้บริการฮะ ถามเรื่องการแจ้งร้องเรียน ติดตามสถานะ ข้อบัญญัติและค่าปรับ (มีลิงก์แหล่งข้อมูลทางราชการ) หรือข้อมูลนักท่องเที่ยวได้เลยฮะ'
+    b['greeting'] = 'สวัสดีฮะ 👋 น้องอัศวินยินดีให้บริการฮะ ถามเรื่องการแจ้งร้องเรียน ติดตามสถานะ ข้อบัญญัติและค่าปรับ (มีลิงก์แหล่งข้อมูลทางราชการ) หรือข้อมูลนักท่องเที่ยวได้เลยฮะ'
     b.setdefault('greetings', {})['th'] = b['greeting']
     b['fallback'] = particle(re.sub(r'ขออภัย(ครับ|ค่ะ)', 'ขออภัยฮะ', b.get('fallback', '')), pt)
     b.setdefault('fallbackI18n', {})['th'] = b['fallback']
@@ -30,13 +30,19 @@ def main():
     v = b.setdefault('voice', {})
     for k, d in (('enabled', True), ('autoGreet', True), ('serverTts', True), ('gender', 'male'), ('rate', 1.0), ('pitch', 1.1)): v.setdefault(k, d)
     v.setdefault('greetings', {
-        'th': 'สวัสดีฮะ ยินดีต้อนรับสู่เทศกิจพัทยาฮะ น้องAIยินดีช่วยเหลือฮะ',
-        'en': "Hello! Welcome to Pattaya City Law Enforcement. I'm Nong AI, happy to help you!",
-        'zh': '您好！欢迎来到芭提雅市执法处，小AI很高兴为您服务！',
-        'ru': 'Здравствуйте! Добро пожаловать в муниципальную инспекцию Паттайи. Я Нонг AI, с радостью помогу!'})
+        'th': 'สวัสดีฮะ น้องอัศวินยินดีต้อนรับสู่เทศกิจพัทยาฮะ',
+        'en': "Hello! I'm Nong Assawin. Welcome to Pattaya City Law Enforcement!",
+        'zh': '您好！我是阿萨温（Nong Assawin），欢迎来到芭提雅市执法处！',
+        'ru': 'Здравствуйте! Я Нонг Ассавин. Добро пожаловать в муниципальную инспекцию Паттайи!'})
+    # ทักทาย/ถามชื่อ → แนะนำตัว "น้องอัศวิน"
+    kb = b.setdefault('kb', [])
+    if not any(k.get('id') == 'hello' for k in kb):
+        g = b.get('greetings', {})
+        kb.insert(0, {'id': 'hello', 'q': 'สวัสดี คุณชื่ออะไร', 'keywords': ['สวัสดี', 'หวัดดี', 'ชื่ออะไร', 'เป็นใคร', 'hello', 'hi', 'hey', 'who are you', 'your name', '你好', '您好', '你是谁', 'привет', 'здравствуйте', 'кто ты'],
+                      'a': g.get('th', b['greeting']), 'aEn': g.get('en', ''), 'aZh': g.get('zh', ''), 'aRu': g.get('ru', '')})
     sp = b.get('systemPrompt', '')
     if '{particle}' not in sp:
-        sp = sp.replace('กฎเคร่งครัด:', 'บุคลิก: เด็กผู้ชายวัยรุ่น สุภาพ อ่อนโยน น่ารัก แทนตัวเองว่า "น้องAI" · ภาษาไทยให้ลงท้ายประโยคด้วย "{particle}" อย่างเป็นธรรมชาติ (ไม่ใช้ ครับ/ค่ะ) · ภาษาอื่นตอบสุภาพ อบอุ่น เป็นกันเอง\nกฎเคร่งครัด:', 1)
+        sp = sp.replace('กฎเคร่งครัด:', 'บุคลิก: เด็กผู้ชายวัยรุ่น สุภาพ อ่อนโยน น่ารัก แทนตัวเองว่า "น้องอัศวิน" · ภาษาไทยให้ลงท้ายประโยคด้วย "{particle}" อย่างเป็นธรรมชาติ (ไม่ใช้ ครับ/ค่ะ) · ภาษาอื่นตอบสุภาพ อบอุ่น เป็นกันเอง\nกฎเคร่งครัด:', 1)
         b['systemPrompt'] = sp
     json.dump(c, open(P, 'w', encoding='utf-8'), ensure_ascii=False, indent=2)
 

diff --git a/shot2.py b/shot2.py
@@ -11,7 +11,7 @@ MASCOT_CARD = """()=>{const M=(c)=>TKPMascot.svg('assets/logo.png',c);
 const st=(h,t)=>'<div style="text-align:center"><div style="width:150px;height:178px;margin:auto">'+h+'</div><p style="margin:6px 0 0;font:600 15px Prompt;color:#0b2545">'+t+'</p></div>';
 document.body.innerHTML='<div style="height:100vh;display:flex;align-items:center;gap:40px;padding:0 60px;box-sizing:border-box;background:radial-gradient(circle at 28% 50%,#e0fbff 0,#d5ecf8 35%,#b9d7ec 100%);font-family:Sarabun">'+
 '<div style="width:470px;height:560px;flex:none">'+M('static')+'</div>'+
-'<div><p style="font:700 34px Prompt;color:#0b2545;margin:0">น้องAIเทศกิจพัทยา</p><p style="font:400 17px Sarabun;color:#334155;margin:6px 0 26px">หุ่นยนต์ผู้ช่วยต้นฉบับ · SVG หลายเลเยอร์ + CSS แอนิเมชัน · ตราโล่เทศกิจพัทยาที่หน้าอก</p>'+
+'<div><p style="font:700 34px Prompt;color:#0b2545;margin:0">น้องอัศวิน</p><p style="font:400 17px Sarabun;color:#334155;margin:6px 0 26px">หุ่นยนต์ผู้ช่วยต้นฉบับ · SVG หลายเลเยอร์ + CSS แอนิเมชัน · ตราโล่เทศกิจพัทยาที่หน้าอก</p>'+
 '<div style="display:flex;gap:26px;align-items:flex-end">'+st(M('static talking'),'กำลังพูด')+st(M('static happy'),'ยิ้ม (hover)')+
 '<div style="text-align:center"><div style="display:flex;gap:10px;align-items:center;justify-content:center;height:178px"><span style="width:44px;height:44px;border-radius:50%;overflow:hidden;background:linear-gradient(#f0f9ff,#cffafe);box-shadow:0 0 0 2px #67e8f9"><img src="assets/mascot.png" style="width:100%;transform:scale(1.55);transform-origin:top;margin-top:2px"></span><span style="width:88px;height:104px"><img src="assets/mascot.png" style="width:100%"></span></div><p style="margin:6px 0 0;font:600 15px Prompt;color:#0b2545">ภาพนิ่ง mascot.png</p></div></div></div></div>';
 document.querySelectorAll('.mascot.happy .m-eyeball').forEach(e=>e.style.opacity=0);document.querySelectorAll('.mascot.happy .m-happy').forEach(e=>e.style.opacity=1);
